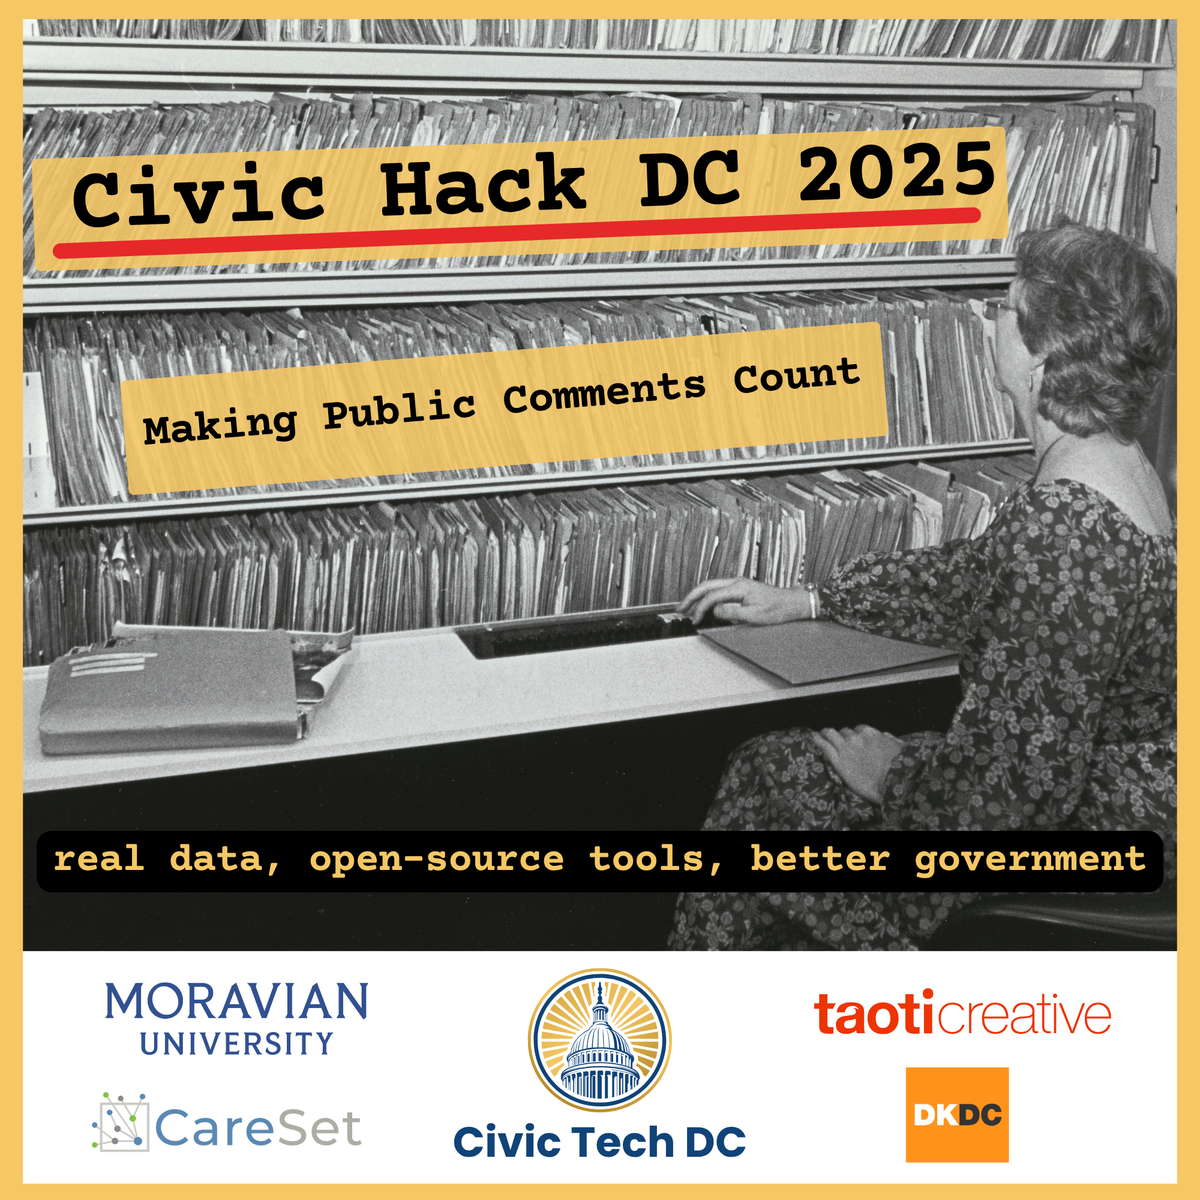
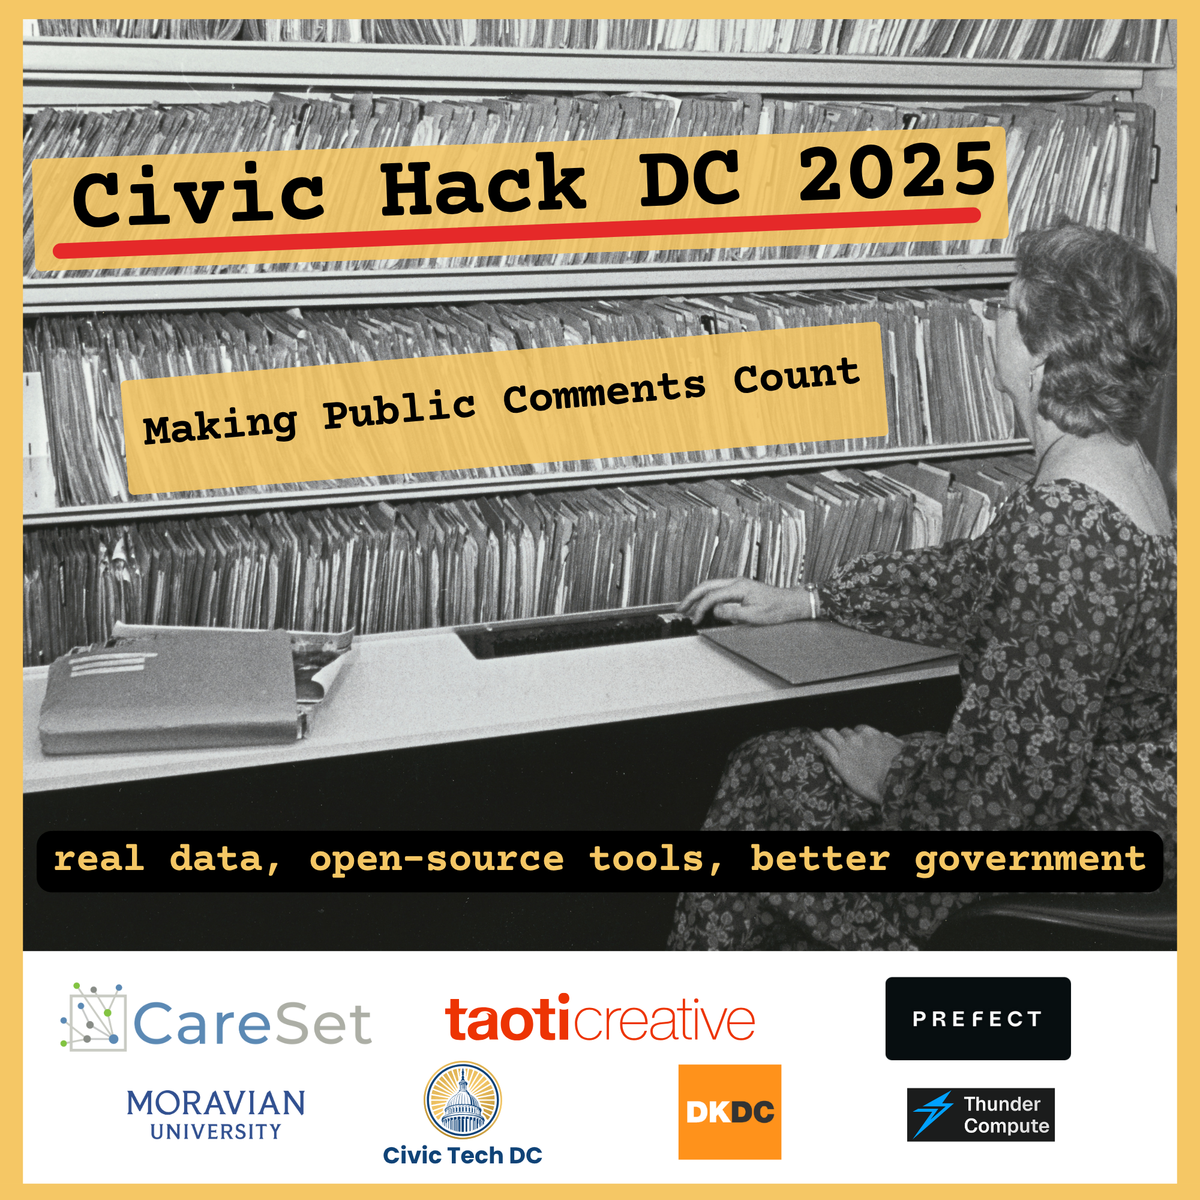
feat: added prefect as sponsors

Changed region(s): [[0.3083, 0.8017, 0.6783, 0.9867], [0.0308, 0.8017, 0.3083, 0.9558], [0.6783, 0.8017, 0.925, 0.9867]]

diff --git a/_events/civichackdc.md b/_events/civichackdc.md
@@ -95,7 +95,7 @@ description: |
                 We're excited to announce that we've secured the downstairs space at Taoti Creative for July 26. Taoti has been a longtime supporter of the civic tech community here in DC, and we're grateful to have them as both venue host and sponsor. Their commitment to using creative and technical expertise for social good aligns perfectly with our mission.
             </p>
             <br />
-            <h3>🌟 HackDC2025 Part 2: September 20th, 2025</h3>
+            <h3>🌟 HackDC2025 Part 2: Fall 2025</h3>
             <p>
                 The response to this hackathon has been incredible. We've heard from nonprofits, policy experts, and technologists who all see the same thing we do: this problem space is huge, urgent, and worth investing in.
             </p>
@@ -106,7 +106,7 @@ description: |
                 We're still moving forward with the July 26 event. This first hackathon will focus on foundational data engineering work and analysis,anchored by a problem statement from CMS.
             </p>
             <p>
-                We're also planning a follow-up event in September. That extra runway will help us bring in more nonprofit collaborators, secure additional funding, and build on what we learn in July.
+                We're also planning a follow-up event in Fall 2025. That extra runway will help us bring in more nonprofit collaborators, secure additional funding, and build on what we learn in July.
             </p>
             <p>
                 <strong>This is shaping up to be an exciting problem space. Hope to see you on July 26th!</strong>
@@ -132,8 +132,19 @@ description: |
                      src="/assets/images/logos/taoti-800w.jpg"
                      alt="Taoti Creative">
             </a>
-            <a href="https://www.thundercompute.com/" target="_blank" rel="noopener noreferrer">
-                <img style="height: 140px;
+            <a href="https://www.prefect.io"
+               target="_blank"
+               rel="noopener noreferrer">
+                <img style="height: 120px;
+                            width: auto"
+                     class="partner-logo"
+                     src="/assets/images/logos/prefect-400w.png"
+                     alt="Prefect">
+            </a>
+            <a href="https://www.thundercompute.com/"
+               target="_blank"
+               rel="noopener noreferrer">
+                <img style="height: 80px;
                             width: auto"
                      class="partner-logo"
                      src="/assets/images/logos/thunder_logo_text-400w.png"
